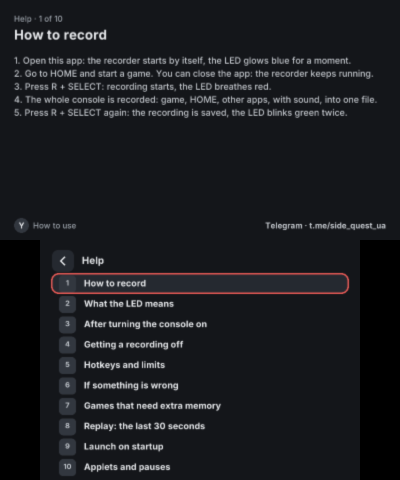
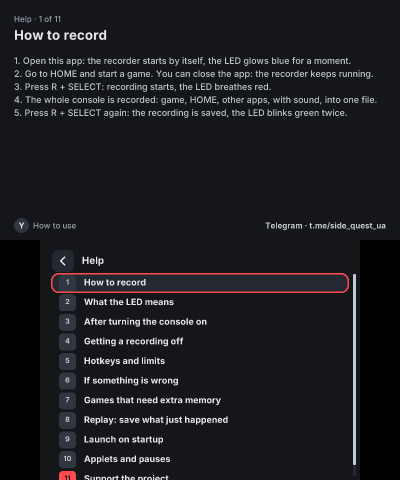
chore: 1.7.0 — version, update notes, docs for in-app updates
- APP_VERSION 1.7.0
- "What's new" for the update screen in 10 languages (tools/i18n/notes/1.7.0),
  kept to the glyphs the app's fonts have
- README (en/uk): updating from Settings → App → Updates
- Guide (en/uk): the Updates setting; privacy (en/uk): the update check and
  Help's support links ask the server with no console ID
- Help screenshots with the 11th topic; the screen tour's made-up update is 1.7.1
  with neutral notes

diff --git a/app/source/update.c b/app/source/update.c
@@ -372,13 +372,11 @@ void update_stop(void)
 void update_tour(UpdPhase phase, UpdCheck check, UpdError error)
 {
     static const char TEXT[] =
-        "version=1.7.0\n"
+        "version=1.7.1\n"
         "cia=8812544 0000000000000000000000000000000000000000000000000000000000000000\n"
         "3dsx=9012345 0000000000000000000000000000000000000000000000000000000000000000\n"
-        "notes.en=Update the app from Settings: no more trips to GitHub|Buttons in the MP4 on the phone too|"
-        "Replay starts faster after a game launches|Fixes for New 3DS\n"
-        "notes.uk=Оновлення застосунку прямо з Налаштувань|Кнопки в MP4 і на телефоні|"
-        "Replay швидше вмикається після запуску гри|Виправлення для New 3DS\n"
+        "notes.en=What is new in that version comes here|In the app's language|A few points, one a line\n"
+        "notes.uk=Тут — що нового в тій версії|Мовою додатка|Кілька пунктів, по одному в рядку\n"
         "notes.ja=設定からソフトをアップデート|新しい機能\n";
     g_textLen = sizeof(TEXT) - 1;
     memcpy(g_text, TEXT, sizeof(TEXT));

diff --git a/docs/guide.uk.md b/docs/guide.uk.md
@@ -84,6 +84,11 @@
   це економить процесор, а не місце.
 - **Тест SD-карти** (Налаштування → Додаток): записує 96 МБ так, як рекордер (20–40 с), і каже, наскільки швидка
   картка й для чого її досить. Обом екранам 3D-гри по 30 fps на Old 3DS треба близько 5,4 МБ/с.
+- **Оновлення** (Налаштування → Додаток, з 1.7.0): **Перевіряти самостійно** (спершу увімкнено) питає сервер про
+  новішу версію, коли додаток відкривається з Wi-Fi; тоді крапка на «Налаштуваннях» показує її разом зі списком змін
+  вашою мовою. **Оновити** завантажує й встановлює її (`.cia` у систему, `.3dsx` поверх себе), далі **Перезапустити**.
+  Кожне оновлення підписане розробником, і кожен файл перевіряється до встановлення; обірване з'єднання продовжується
+  з того місця. Не під час запису: нова версія перезапускає рекордер.
 - **Якість — Авто:** картинка, яка змінюється вся (3D-гра в русі), зберігається як у відео — колір із половинною
   роздільністю, тому на Old 3DS обидва екрани тримають до 30 кадрів на секунду; меню, 2D-ігри й нерухомі картинки
   лишаються точними. **Без втрат** зберігає кожен кадр точно; у 3D-іграх SD-картка тоді не встигає за всіма кадрами.

diff --git a/docs/privacy.uk.md b/docs/privacy.uk.md
@@ -25,6 +25,11 @@ Wi-Fi, додаток навіть не пробує з'єднатися. Ніч
 **Як передається:** звичайним HTTP, як до сервера доходить мережевий стек самої консолі, тож дорогою дані не
 шифруються.
 
+**Оновлення і Допомога:** коли увімкнено Налаштування → Додаток → **Оновлення → Перевіряти самостійно** (або коли
+ви натискаєте **Перевірити**), додаток питає той самий сервер, чи вийшла новіша версія; **Допомога** бере в нього
+посилання для розділу **Підтримати проєкт**. Ці два запити несуть лише версію додатка (і, для оновлення, який файл);
+жодного ID консолі чи журналів, і вони працюють навіть із вимкненою статистикою.
+
 **Ваш ID** показано в Налаштування → Додаток біля перемикача. Щоб видалити свої записи, напишіть його в
 [issue](https://github.com/BolgarMaxym97/3ds-recorder/issues/new) або в Telegram (t.me/side_quest_ua). Якщо видалити
 `/3ds/recorder/stats.ini`, з'явиться новий ID.

diff --git a/docs/guide.md b/docs/guide.md
@@ -84,6 +84,11 @@ turned on or restarts, with Replay as you left it, and you never have to open th
   this saves processor time, not space.
 - **Test SD Card** (Settings → App): writes 96 MB the way the recorder does (20–40 s) and tells how fast the card is
   and what that is enough for. Both screens of a 3D game at 30 fps need about 5.4 MB/s on an Old 3DS.
+- **Updates** (Settings → App, since 1.7.0): **Check Automatically** (on at first) asks the server for a newer version
+  when the app opens with Wi-Fi; a dot on Settings then shows it, with what is new in your language. **Update**
+  downloads it and installs it (the `.cia` into the system, the `.3dsx` over itself), then **Restart**. Every update is
+  signed by the developer and each file is checked before anything is installed; a lost connection goes on where it
+  stopped. Not while a recording runs: the new version restarts the recorder.
 - **Quality — Auto:** a picture that changes all over (a 3D game in motion) is stored the way video is, colour at half
   the resolution, so both screens keep up to 30 frames a second on an Old 3DS; menus, 2D games and still pictures stay
   exact. **Lossless** keeps every frame exact; in 3D games the SD card then cannot take every frame.

diff --git a/README.uk.md b/README.uk.md
@@ -56,8 +56,9 @@ https://github.com/user-attachments/assets/122e7c76-d4c6-4f60-9426-aeed7d322776
 
 <img src="docs/qr-latest-cia.png" width="160" alt="QR-код: останній 3ds-recorder.cia">
 
-**Щоб оновити,** встановіть новий `.cia` поверх старого (або замініть `.3dsx`) і відкрийте додаток. Налаштування і
-записи лишаються.
+**Щоб оновити,** відкрийте Налаштування → Додаток → **Оновлення** і натисніть **Оновити** (з 1.7.0; додаток і сам
+перевіряє, коли відкривається з Wi-Fi, а крапка на «Налаштуваннях» показує нову версію). До 1.7.0: встановіть новий
+`.cia` поверх старого (або замініть `.3dsx`) і відкрийте додаток. Налаштування і записи лишаються.
 
 ## Як користуватися
 

diff --git a/docs/privacy.md b/docs/privacy.md
@@ -25,6 +25,11 @@ model, versions, settings, title IDs, frame counts) stay for the statistics.
 **How it travels:** over plain HTTP, the way the console's own network stack reaches the server, so it is not
 encrypted on the way.
 
+**Updates and Help:** with Settings → App → **Updates → Check Automatically** on (or when you press **Check Now**), the
+app asks the same server whether a newer version is out; **Help** asks it for the links of its **Support the project**
+topic. These two requests carry only the app version (and, for an update, which file); no console ID, no logs, and
+they work with Share Statistics off.
+
 **Your ID** is shown in Settings → App next to the switch. To have your records deleted, write it in an
 [issue](https://github.com/BolgarMaxym97/3ds-recorder/issues/new) or on Telegram (t.me/side_quest_ua). Deleting
 `/3ds/recorder/stats.ini` makes a new ID.

diff --git a/README.md b/README.md
@@ -59,8 +59,9 @@ release.
 
 <img src="docs/qr-latest-cia.png" width="160" alt="QR code: the latest 3ds-recorder.cia">
 
-**To update,** install the new `.cia` over the old one (or replace the `.3dsx`) and open the app. Settings and
-recordings stay.
+**To update,** open Settings → App → **Updates** and press **Update** (from 1.7.0 on; the app also checks by itself
+when it opens with Wi-Fi, and a dot on Settings shows a new version). Before 1.7.0: install the new `.cia` over the old
+one (or replace the `.3dsx`) and open the app. Settings and recordings stay.
 
 ## How to use
 
